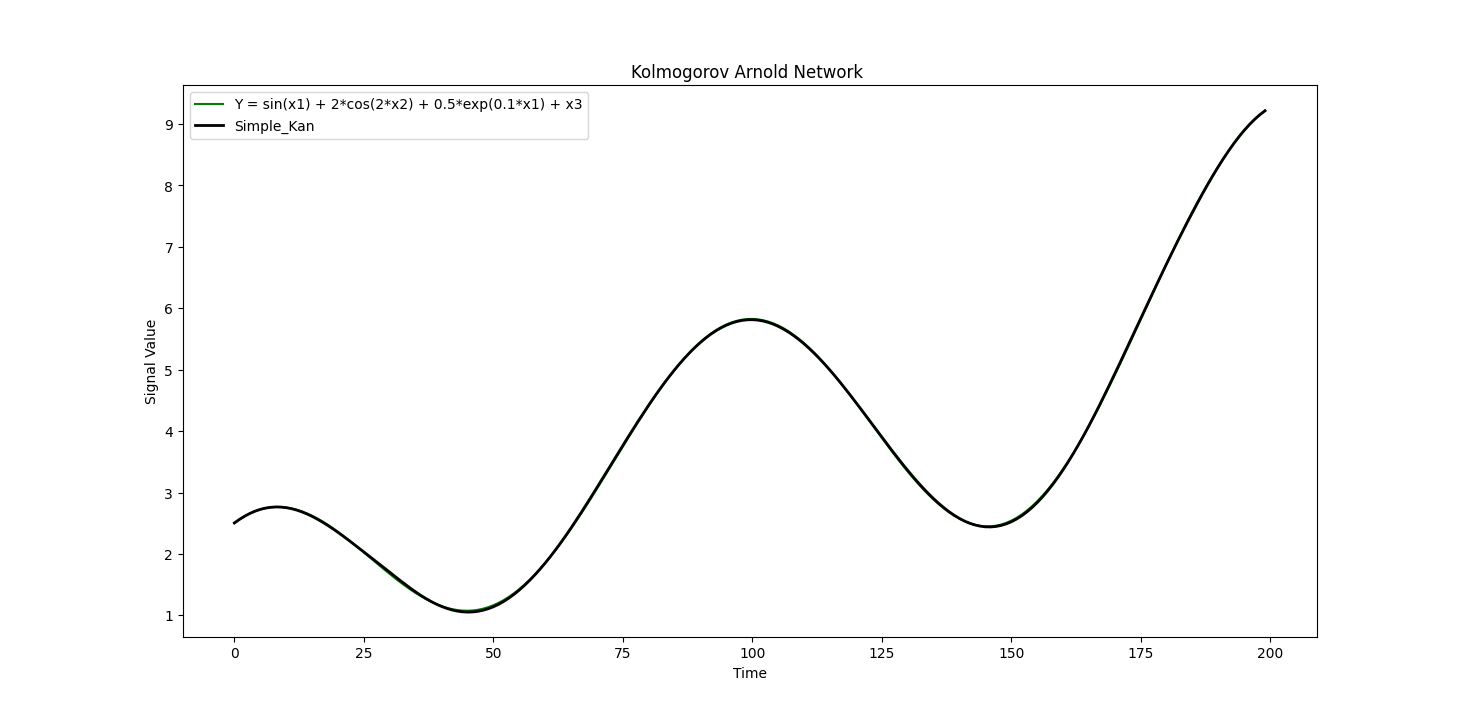
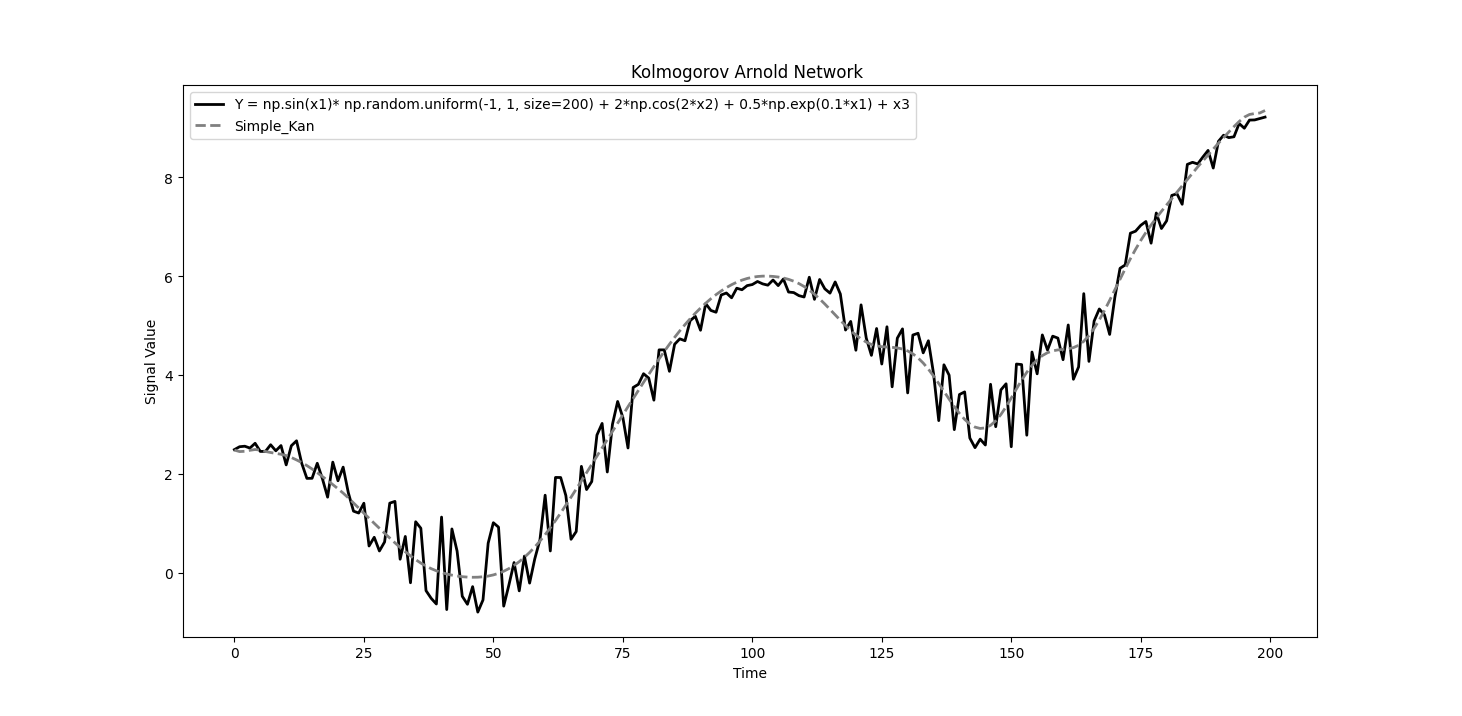
'update'

diff --git a/Kolmogorov Arnold Network/example.py b/Kolmogorov Arnold Network/example.py
@@ -8,18 +8,19 @@ x2 = np.linspace(0,2*np.pi,data_points)
 x3 = np.linspace(0,2*np.pi,data_points)
 X0 = np.column_stack((x1, x2, x3))
 
-Y = np.sin(x1) + 2*np.cos(2*x2) + 0.5*np.exp(0.1*x1) + x3
+Y = np.sin(x1)* np.random.uniform(-1, 1, size=200) + 2*np.cos(2*x2) + 0.5*np.exp(0.1*x1) + x3
 
 
 
-model = Simple_Kan(max_degree=3,intervals=3,input=X0,target=Y)
+model = Simple_Kan(max_degree=3,intervals=5,input=X0,target=Y)
 model.train(epochs = 1000,learning_rate = 0.8)
 Y_hat = model.forward(X0)
 
 
 plt.figure(figsize=(12, 8))
-plt.plot(Y, label='Y = sin(x1) + 2*cos(2*x2) + 0.5*exp(0.1*x1) + x3', color='green')
-plt.plot(Y_hat, label='Simple_Kan',  color='black', linewidth=2)
+plt.plot(Y, label='Y = np.sin(x1)* np.random.uniform(-1, 1, size=200) + 2*np.cos(2*x2) + 0.5*np.exp(0.1*x1) + x3', 
+         color='black', linewidth=2)
+plt.plot(Y_hat, label='Simple_Kan', linestyle='--', color='gray', linewidth=2)
 plt.title('Kolmogorov Arnold Network ')
 plt.xlabel('Time')
 plt.ylabel('Signal Value')
